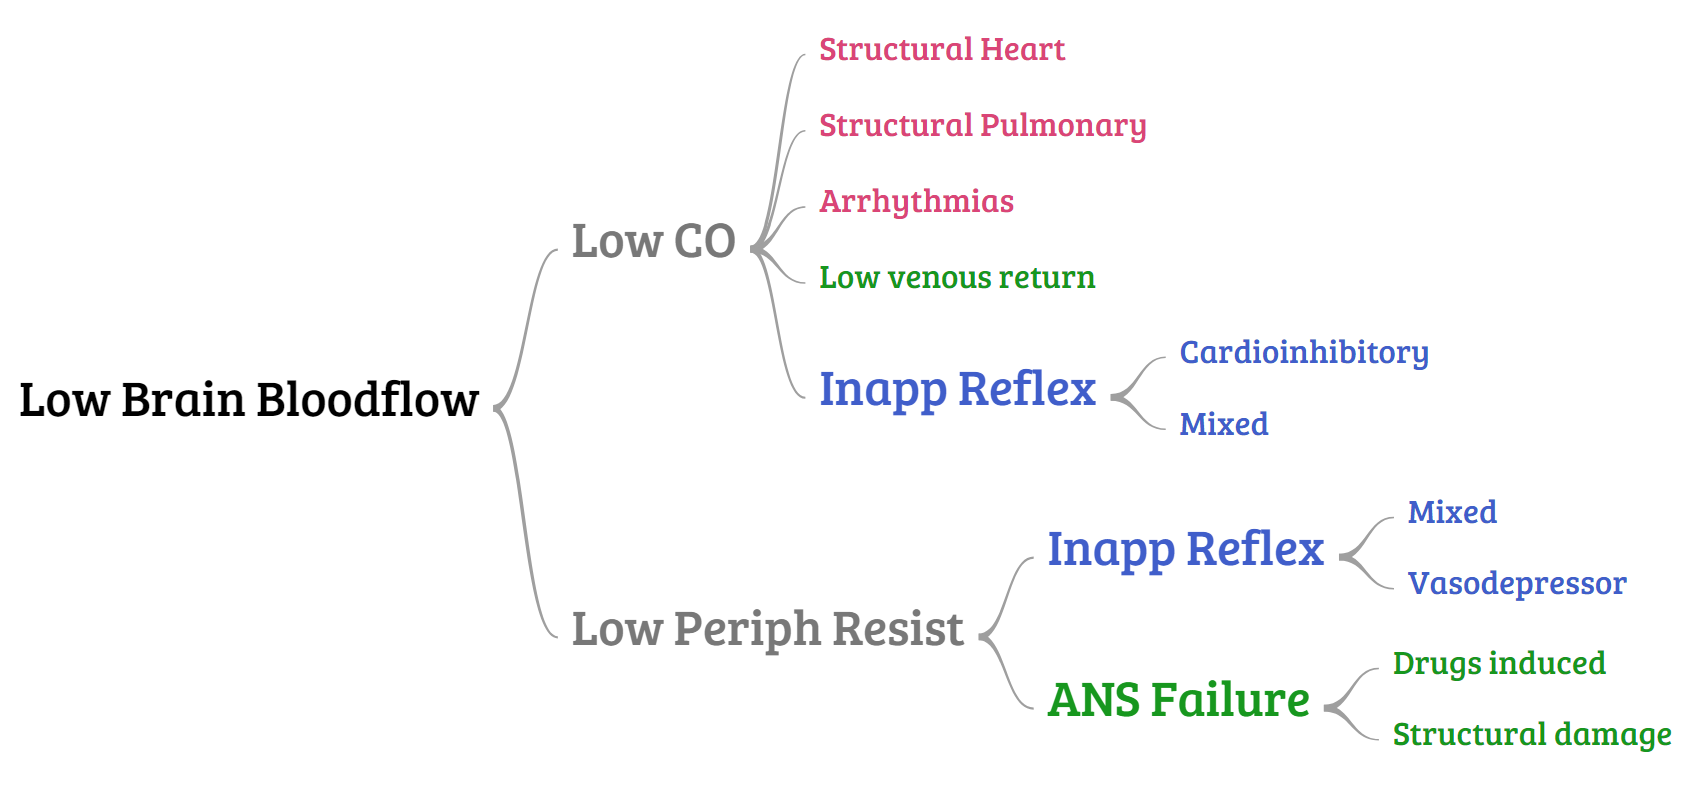
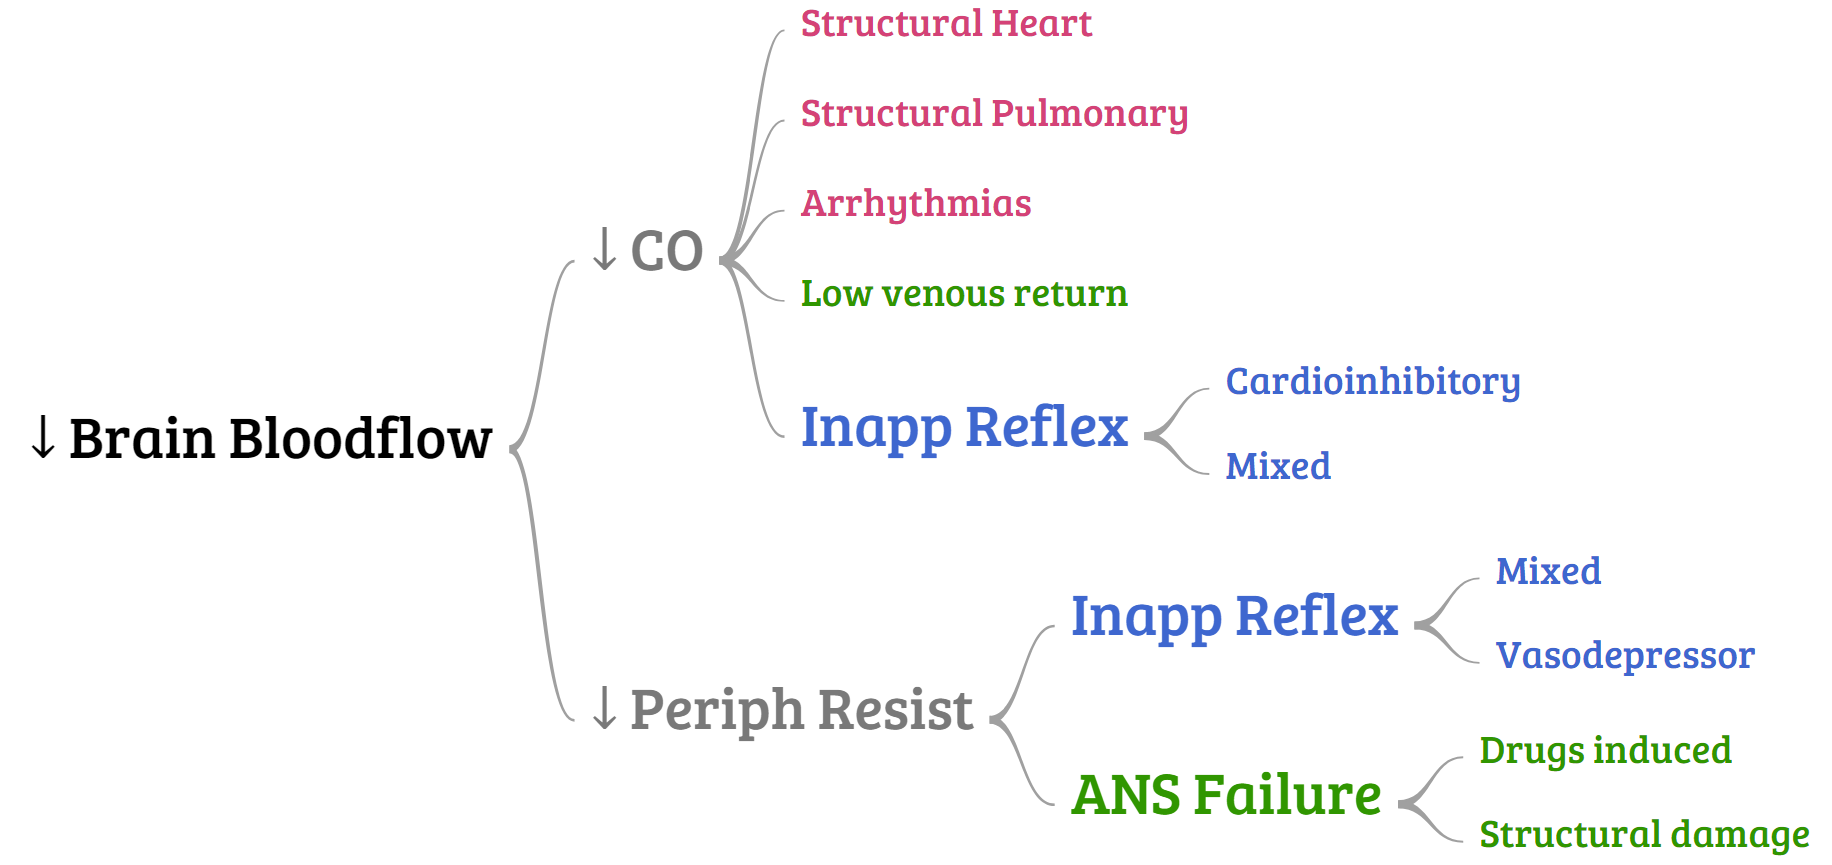
img

diff --git a/def.html b/def.html
@@ -238,10 +238,10 @@ transform-origin: bottom right}
             Orthostatic Hypotension</span>
     </div>
    
-    <div class="w3-container" style="margin-top: 2vmax;">    
+    <div class="w3-container" style="margin-top: 1vmax;">    
         <img src="media/def/wordtrees.png">
         
-        <!--div id="wordtree_explicit" class="no768" style="overflow: auto;width: 100%;margin: auto"></div-->
+        <!--div id="wordtree_explicit" class="no768" style="overflow: auto;width: 100%;"></div-->
         
     </div>
 
@@ -311,10 +311,10 @@ google.charts.setOnLoadCallback(drawSimpleNodeChart);
 function drawSimpleNodeChart() {
 var nodeListData = new google.visualization.arrayToDataTable([
     ['id', 'childLabel', 'parent', 'size', { role: 'style' }],
-    [0, 'Low Brain Bloodflow', -1, 1, 'black'],
+    [0, '↓ Brain Bloodflow', -1, 1, 'black'],
     
-    [1, 'Low CO', 0, 1, '#797979'],
-    [2, 'Low Periph Resist', 0, 1, '#797979'],
+    [1, '↓ CO', 0, 1, '#797979'],
+    [2, '↓ Periph Resist', 0, 1, '#797979'],
 
     [3, 'Inapp Reflex', 2, 1, '#3366cc'],
     [4, 'ANS Failure', 2, 1, '#109618'],
